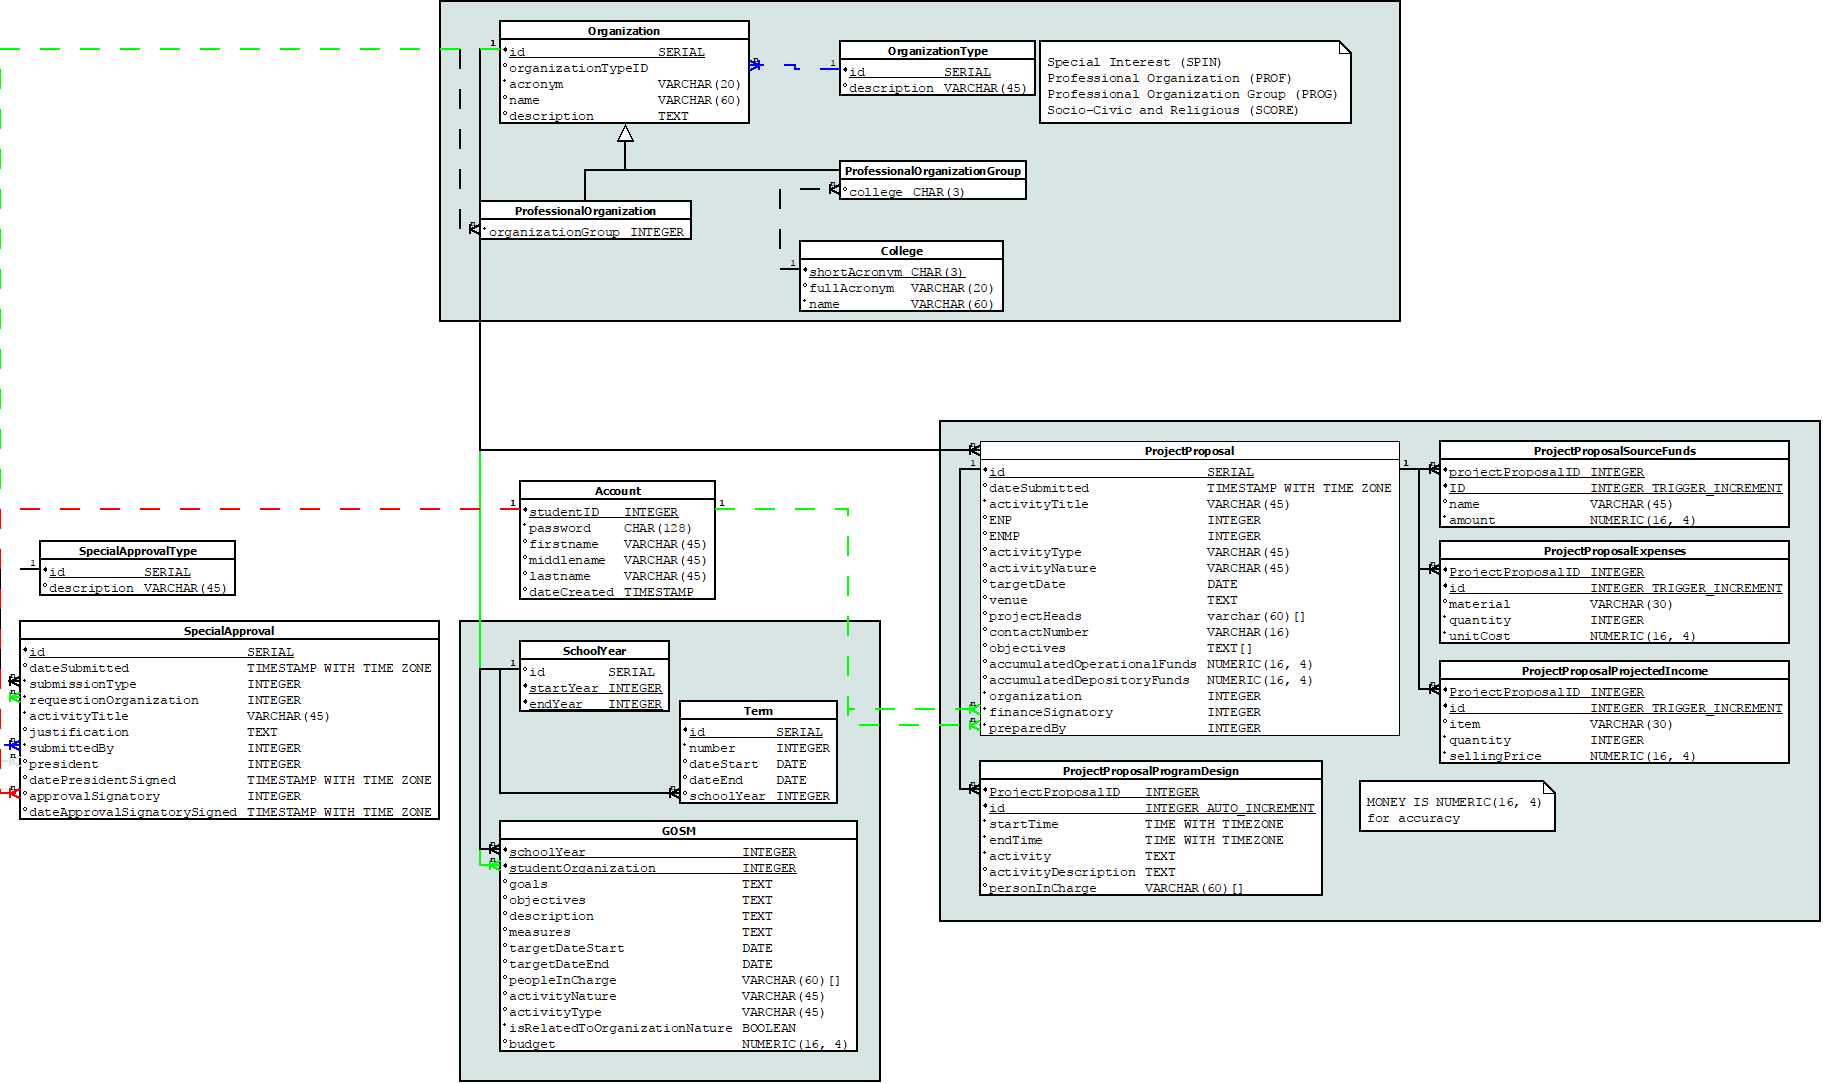
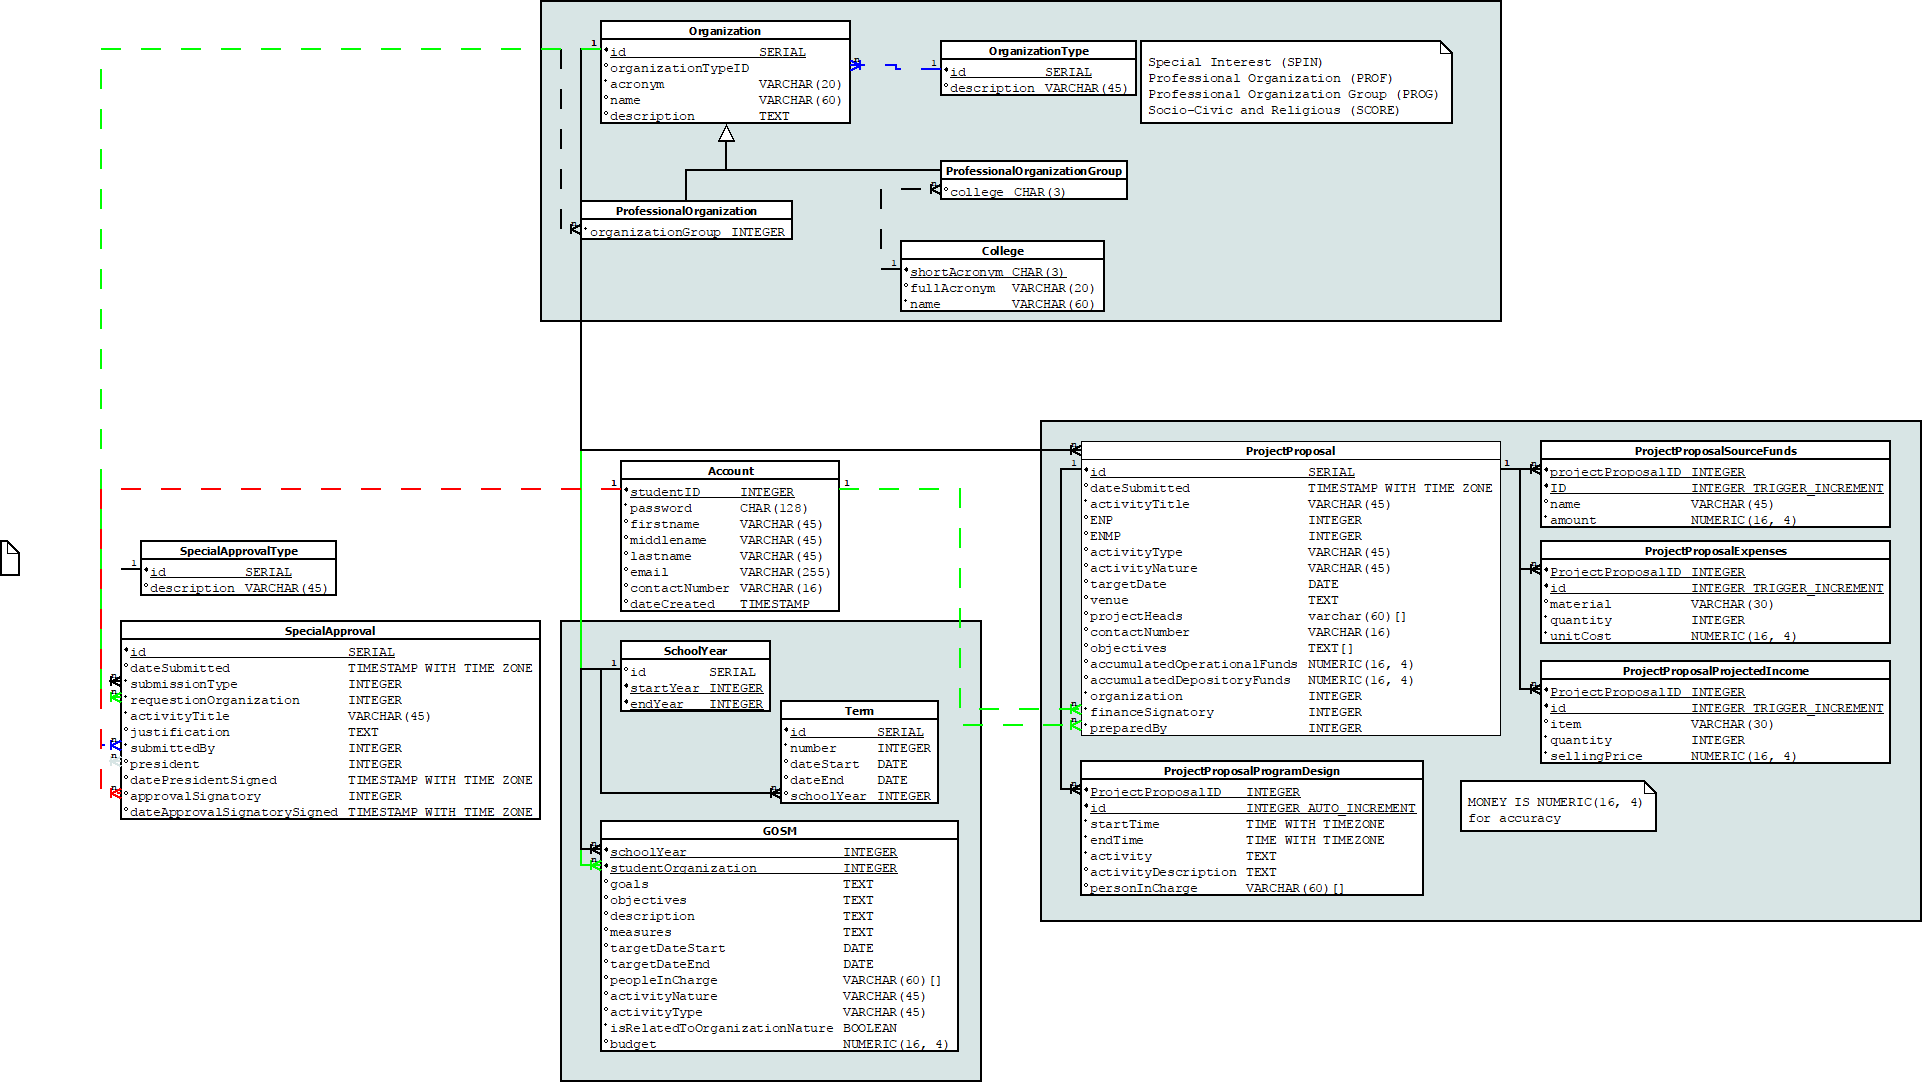
Added Email and Contact number to Account Table

Changed region(s): [[0.0, 0.3653, 0.983, 1.0], [0.215, 0.0, 0.7987, 0.3044]]

diff --git a/config.js b/config.js
@@ -1,0 +1,14 @@
+'use strict';
+var fileSystem = require('fs');
+
+module.exports = {
+	webserver:{
+		port: 3000,
+		url: ''
+	},
+	database: {
+		host: 'localhost',
+		username: 'postgres',
+		password: '1234'
+	}
+};
